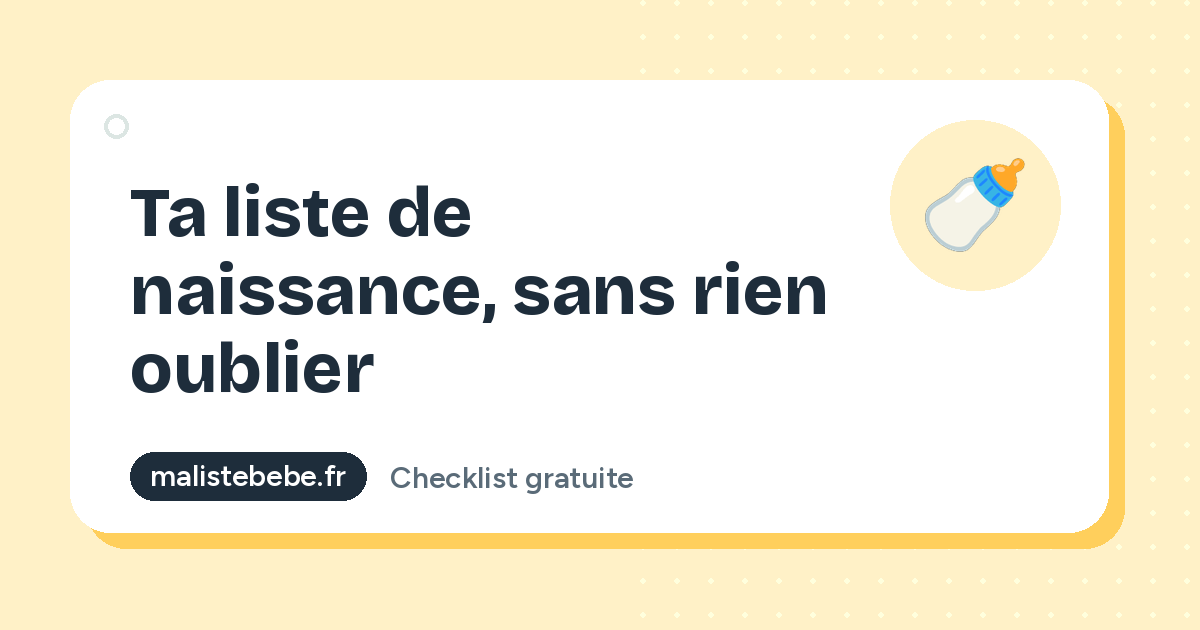
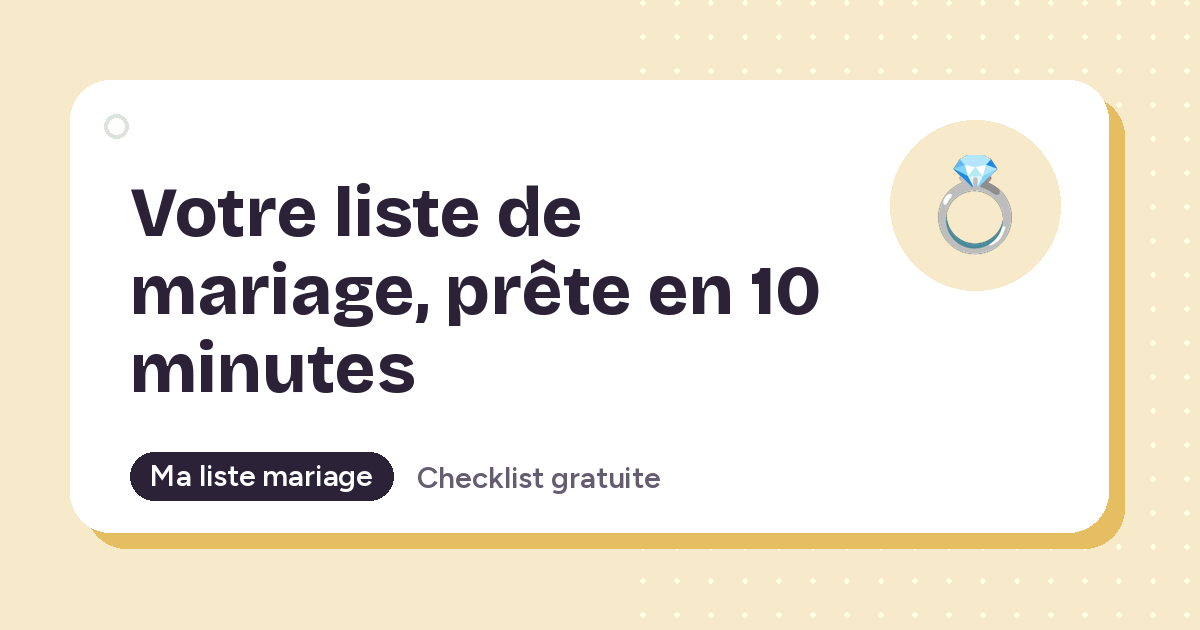
Image de partage : bonne image par défaut et image dédiée aux listes partagées
Claude-Session: https://claude.ai/code/session_01C97iXZu6VkzrMuppVGNipN

diff --git a/docs/ma-liste/index.html b/docs/ma-liste/index.html
@@ -3,19 +3,19 @@
 <head>
 <meta charset="utf-8">
 <meta name="viewport" content="width=device-width,initial-scale=1">
-<title>Liste de mariage partagée</title>
-<meta name="description" content="Une liste de mariage partagée par des futurs mariés.">
+<title>Notre liste de mariage 💍</title>
+<meta name="description" content="Voici les cadeaux choisis par les mariés. Cliquez sur un article pour l&#x27;offrir.">
 <link rel="canonical" href="https://malistedemariage.fr/ma-liste/"><meta name="robots" content="noindex">
 <meta property="og:type" content="website">
-<meta property="og:title" content="Liste de mariage partagée">
-<meta property="og:description" content="Une liste de mariage partagée par des futurs mariés.">
+<meta property="og:title" content="Notre liste de mariage 💍">
+<meta property="og:description" content="Voici les cadeaux choisis par les mariés. Cliquez sur un article pour l&#x27;offrir.">
 <meta property="og:url" content="https://malistedemariage.fr/ma-liste/">
-<meta property="og:image" content="https://malistedemariage.fr/assets/og.png">
+<meta property="og:image" content="https://malistedemariage.fr/og/ma-liste.png">
 <meta property="og:image:width" content="1200">
 <meta property="og:image:height" content="630">
-<meta property="og:image:alt" content="Liste de mariage partagée">
+<meta property="og:image:alt" content="Notre liste de mariage 💍">
 <meta property="og:site_name" content="Ma liste mariage">
-<meta name="twitter:image" content="https://malistedemariage.fr/assets/og.png">
+<meta name="twitter:image" content="https://malistedemariage.fr/og/ma-liste.png">
 <meta property="og:locale" content="fr_FR">
 <meta name="twitter:card" content="summary_large_image">
 <meta name="theme-color" content="#F1F4F0">

diff --git a/src/build.py b/src/build.py
@@ -210,6 +210,8 @@ def build():
             shutil.rmtree(p) if os.path.isdir(p) else os.remove(p)
     os.makedirs(OUT, exist_ok=True)
 
+    # Image de partage par défaut
+    ogimg.make(os.path.join(OUT, 'assets', 'og.png'), 'Votre liste de mariage, prête en 10 minutes', 'Checklist gratuite', '💍', 'miel')
     # Données de la checklist
     data = []
     for cat, emo, items in CHECKLIST:
@@ -382,7 +384,7 @@ def build():
 <div class="wrap"><div id="pub" class="ck"><p>Chargement de la liste...</p></div>
 <div class="prose"><p>Vous aussi, vous vous mariez ? <a href="{R}checklist/">Faites votre checklist gratuite</a>.</p></div></div>
 <script src="{R}assets/data.js?v=3"></script>"""
-    page('ma-liste/', 'Liste de mariage partagée', 'Une liste de mariage partagée par des futurs mariés.', pub, noindex=True, cls='tool')
+    page('ma-liste/', 'Notre liste de mariage 💍', 'Voici les cadeaux choisis par les mariés. Cliquez sur un article pour l\'offrir.', pub, noindex=True, cls='tool', og=ogfor('ma-liste', 'Notre liste de mariage', 'Cliquez pour offrir un cadeau', '🎁', 'peche'))
 
     # Pages légales
     ml = f'''<div class="wrap art-wrap"><article class="prose"><h1>Mentions légales</h1>
